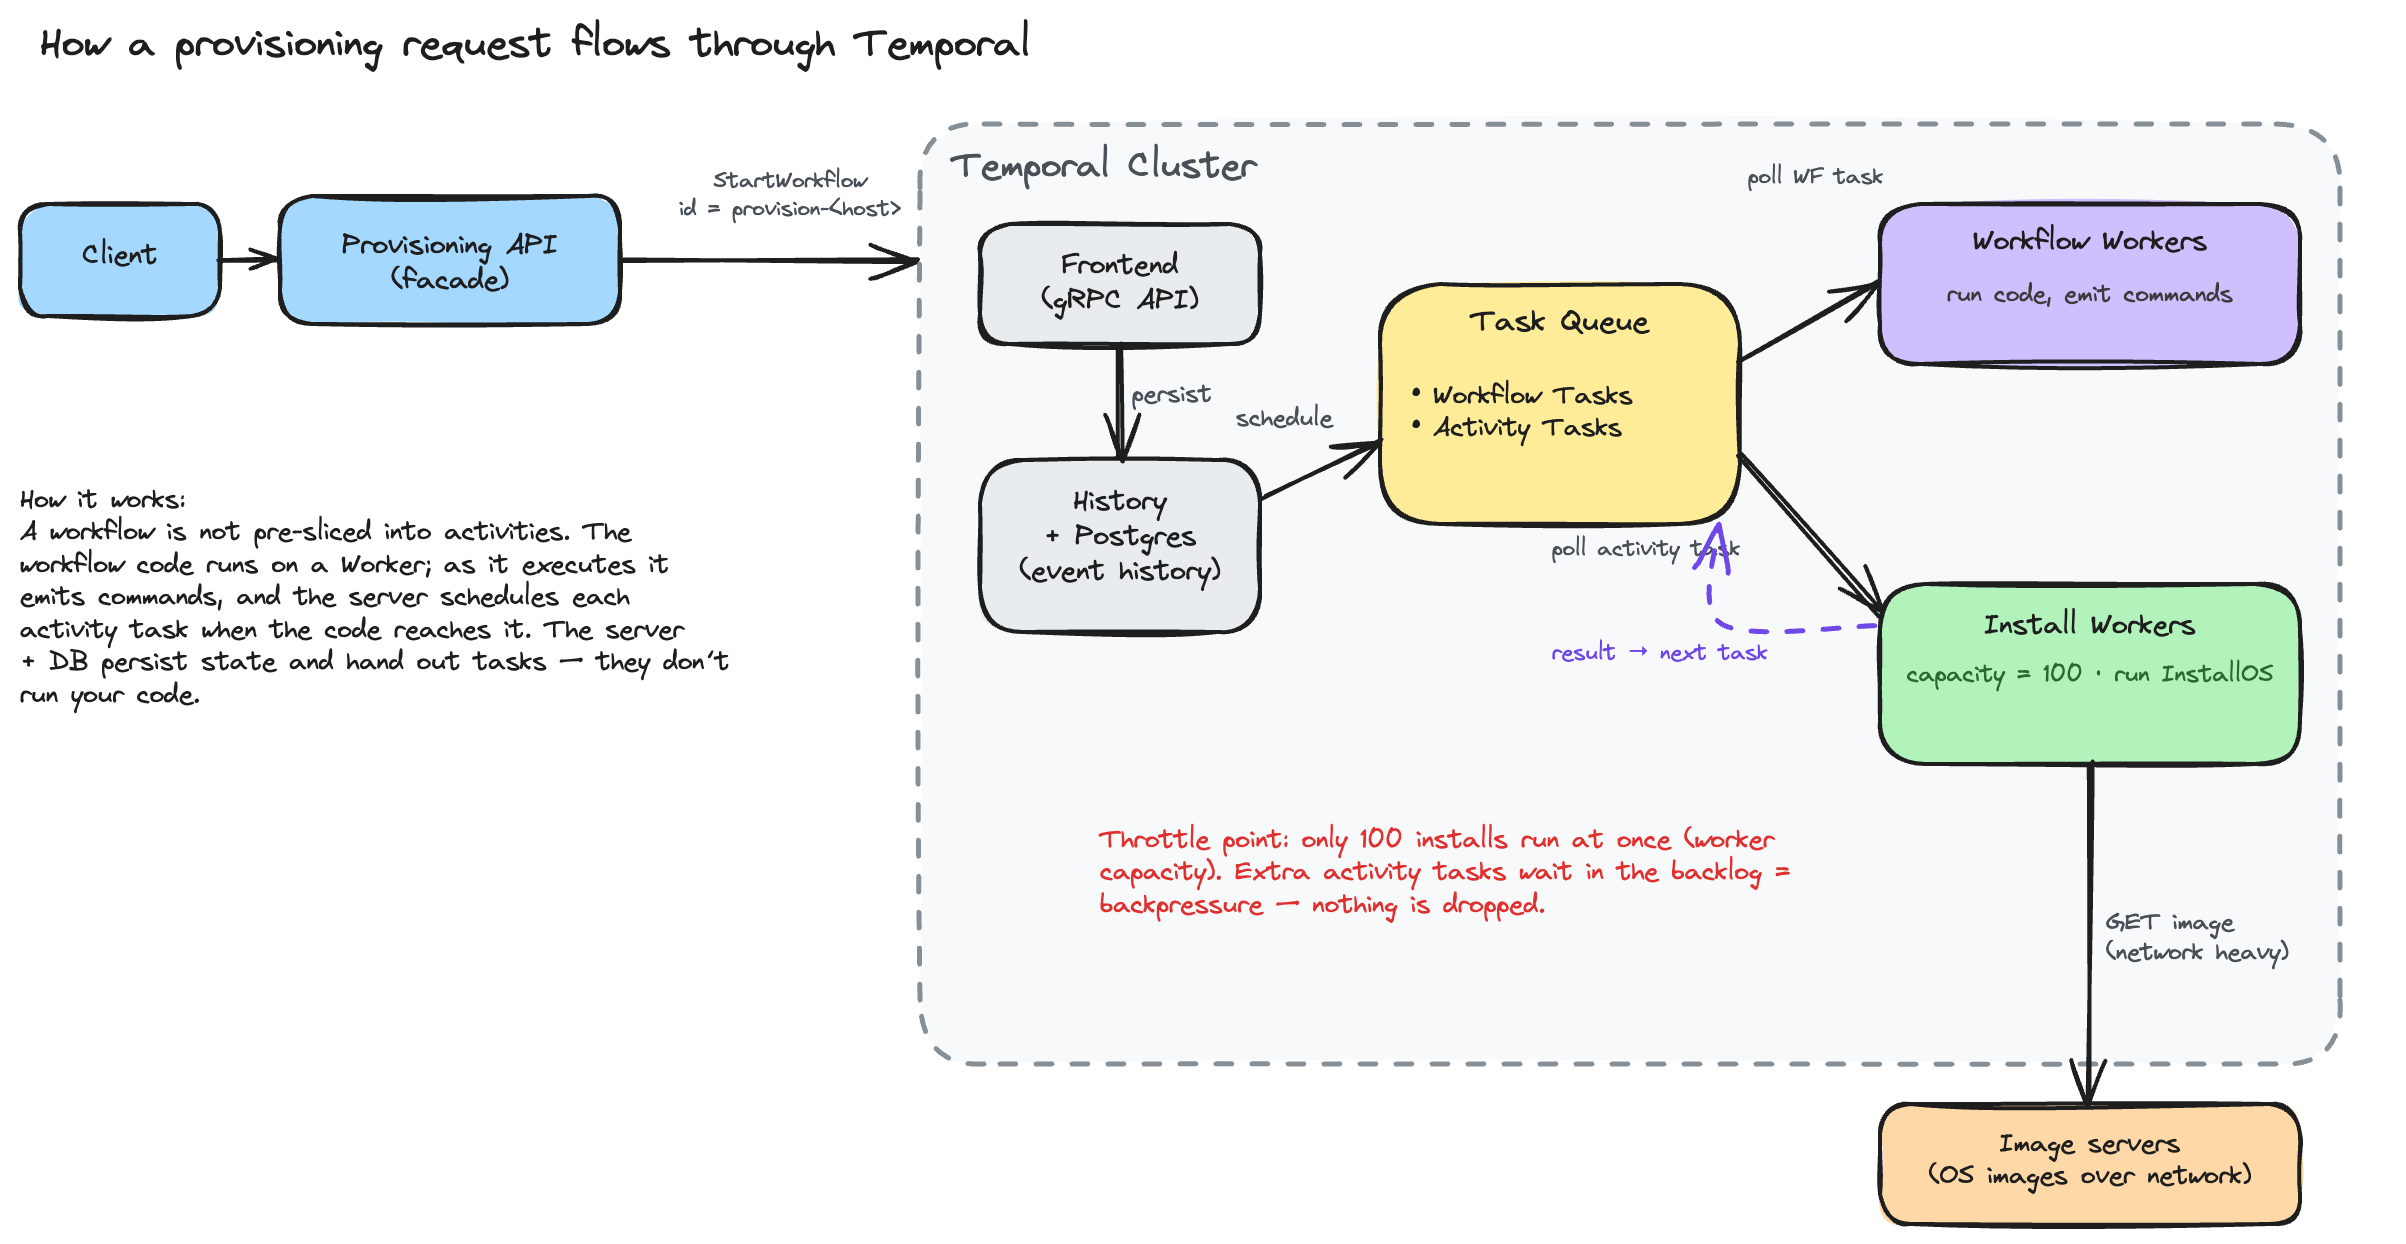
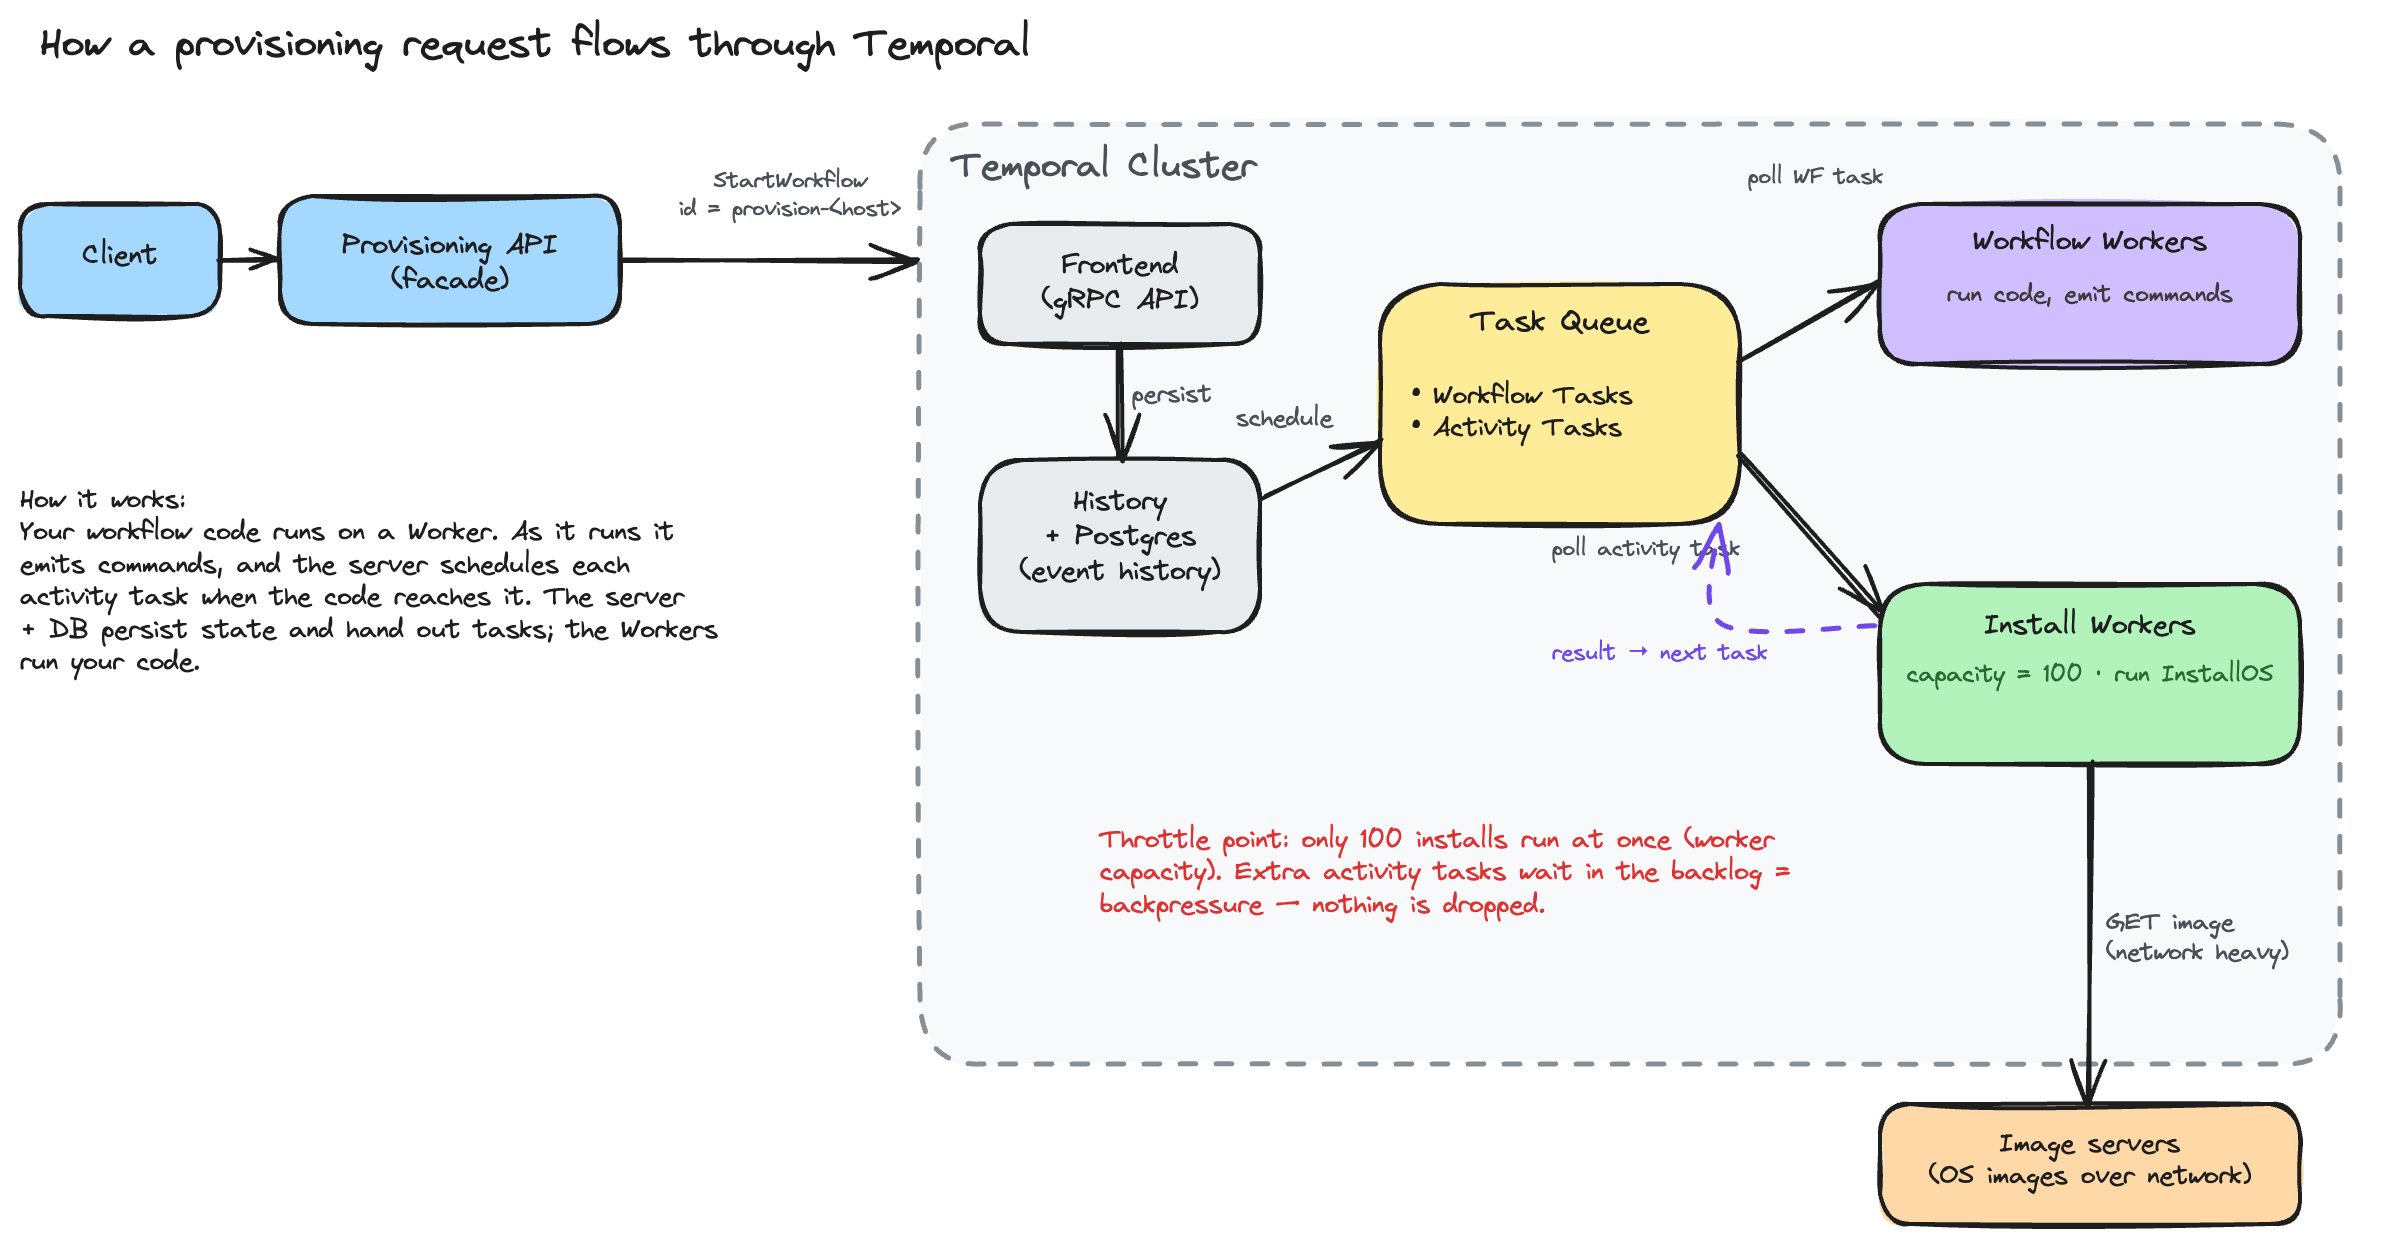
docs: rewrite as context-free statements (no negations of unheld beliefs)
Assume a reader with zero context: state how things work positively rather than
correcting a belief they may not hold. Removed 'not pre-sliced', 'not a
fire-hose', 'the instinct is to… don't', 'actually', 'history isn't infinite',
'wedges instead of losing'. Diagram note reworded to 'Your workflow code runs on
a Worker…'.

Changed region(s): [[0.0, 0.3971, 0.3117, 0.5804]]

diff --git a/docs/activities-and-concurrency.md b/docs/activities-and-concurrency.md
@@ -1,9 +1,9 @@
 # The execution model, and common concurrency scenarios
 
 The next level after [`writing-workflows.md`](writing-workflows.md): how work
-actually flows through Temporal, and how to handle the concurrency and
-reliability situations a team hits in production. Examples use team-a's
-provisioning workflow.
+flows through Temporal, and how to handle the concurrency and reliability
+situations a team hits in production. Examples use team-a's provisioning
+workflow.
 
 ## The working model we assume
 
@@ -22,8 +22,7 @@ here, a stream of independent single-host workflows.
 
 ## The mental model
 
-Understanding how a request becomes running work is the foundation for
-everything else. This is the picture worth holding in your head:
+Here is how a provisioning request becomes running work:
 
 ![How a provisioning request flows through Temporal](diagrams/provisioning-flow.png)
 
@@ -43,15 +42,14 @@ Walking the flow:
 5. The result is persisted, the server schedules the next Workflow Task, the
    worker resumes your code, and the loop repeats until the workflow completes.
 
-Two points worth getting straight:
+Two things this flow shows:
 
-- **A workflow is not pre-sliced into activities.** Your workflow code *runs* on
-  a worker, and it schedules each activity when the code reaches it. The server
-  and database don't run your code — they persist state and hand out tasks.
-- **The task queue is a durable buffer, not a fire-hose.** Tasks wait there until
-  a worker has capacity. That buffering is exactly what lets you throttle work
-  without losing it (Scenario 1), and what makes a workflow's state survive a
-  crash (Scenario 2).
+- **Your workflow code runs on a worker and schedules each activity as it reaches
+  it.** The server and database persist state and hand out tasks; the workers run
+  your code.
+- **The task queue is a durable buffer.** Tasks wait there until a worker has
+  capacity. That buffering is what lets you throttle work without losing it
+  (Scenario 1), and what makes a workflow's state survive a crash (Scenario 2).
 
 Three facts fall out of this model and drive the scenarios below:
 
@@ -67,9 +65,8 @@ Three facts fall out of this model and drive the scenarios below:
 *"A flood of provision calls just arrived. How do I keep from exhausting the
 Temporal cluster and the image servers (network bandwidth for OS images)?"*
 
-The instinct is to rate-limit the API. Don't. Starting a workflow is cheap and
-durable, so **accept every request** and throttle the step that actually stresses
-your resources — the install.
+Starting a workflow is cheap and durable, so **accept every request** and put the
+throttle on the step that stresses your resources — the install.
 
 **Accept and dedupe at the API.** Each call starts one per-host workflow and
 returns. Use the host ID as the workflow ID so retries don't double-provision:
@@ -85,7 +82,7 @@ c.ExecuteWorkflow(ctx, client.StartWorkflowOptions{
 `USE_EXISTING` makes a duplicate call for an in-flight host attach to the running
 workflow instead of erroring — so the API is retry-safe and never has to reject.
 
-**Throttle the install, not the API.** Run `InstallOS` on a dedicated install
+**Put the throttle on the install step.** Run `InstallOS` on a dedicated install
 task queue whose worker fleet has a fixed total capacity — say 100. However many
 workflows are open, only 100 installs run at once; the rest wait in the task
 queue backlog and start as slots free. That backlog *is* your backpressure —
@@ -191,10 +188,10 @@ func InstallOSAllNodes(ctx context.Context, nodes []string) error {
 - *Within one activity:* heartbeat details, as above, when a single step is long
   and you don't want to split it.
 
-**Very long or high-volume workflows:** history isn't infinite (tens of thousands
-of events is the practical ceiling). A workflow that loops forever or fans out to
-huge numbers should call `workflow.NewContinueAsNewError` to start a fresh
-execution with a compact state, keeping history small.
+**Very long or high-volume workflows:** history has a practical ceiling (tens of
+thousands of events). A workflow that loops for a long time or fans out to huge
+numbers should call `workflow.NewContinueAsNewError` to start a fresh execution
+with a compact state, keeping history small.
 
 ---
 
@@ -227,10 +224,9 @@ on the errors retrying can't fix.
   ```
 
 - **Workflow-code (workflow task) failures** — a panic or a bug in workflow code
-  fails the *workflow task*, not the workflow. Temporal keeps retrying the task,
-  so the workflow *pauses* rather than dying. Fix and redeploy the worker and it
-  picks up where it left off. This is why a bad deploy wedges workflows instead of
-  losing them.
+  fails the *workflow task*. Temporal keeps retrying the task, so the workflow
+  pauses and its state is preserved. Fix and redeploy the worker and it picks up
+  where it left off — a bad deploy costs you a pause, not the workflow.
 
 **What you must handle:**
 